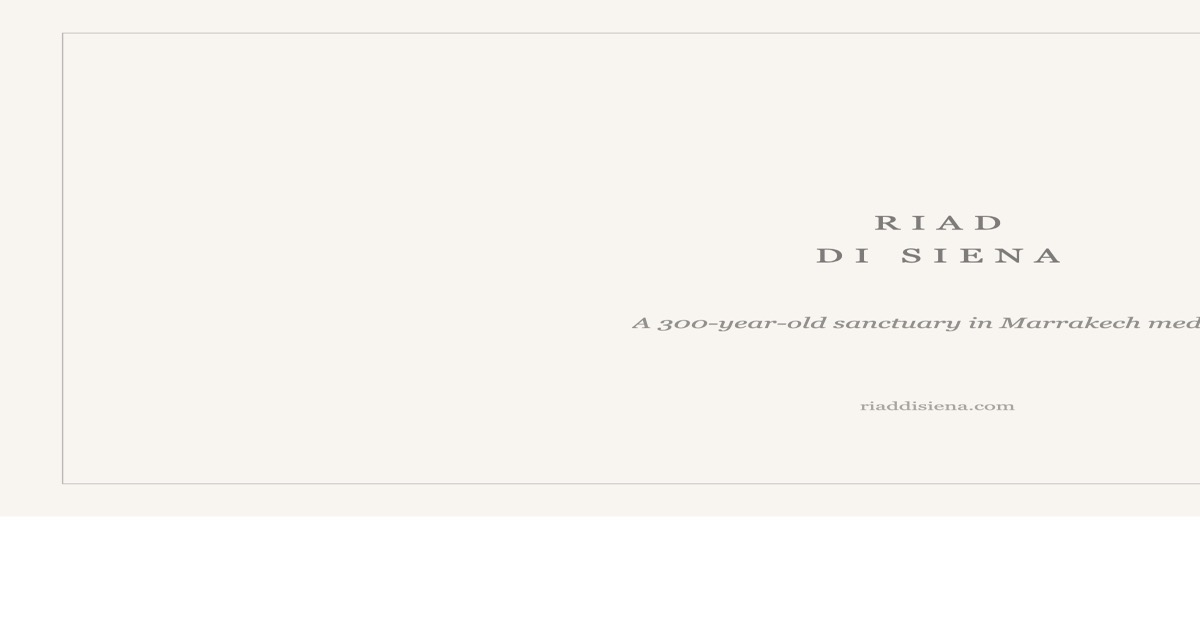
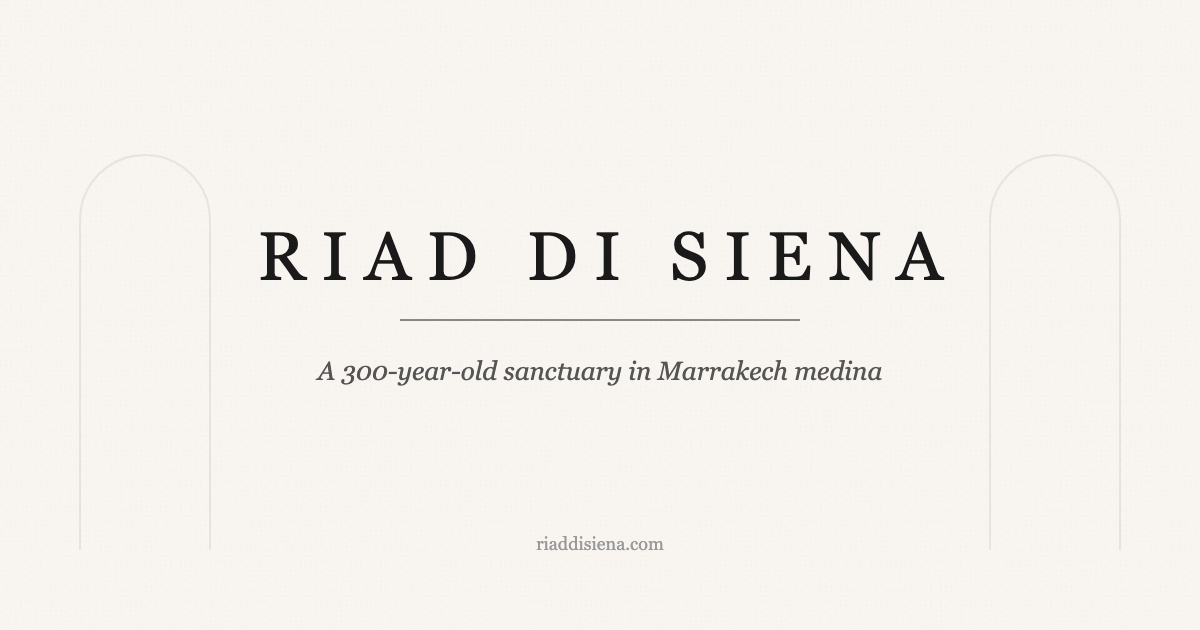
Add files via upload

diff --git a/public/og-generator.html b/public/og-generator.html
@@ -1,0 +1,293 @@
+<!DOCTYPE html>
+<html lang="en">
+<head>
+  <meta charset="UTF-8">
+  <meta name="viewport" content="width=device-width, initial-scale=1.0">
+  <title>OG Image Generator</title>
+  <style>
+    * { box-sizing: border-box; margin: 0; padding: 0; }
+    body {
+      font-family: -apple-system, BlinkMacSystemFont, sans-serif;
+      background: #171717;
+      color: white;
+      padding: 40px;
+      line-height: 1.5;
+    }
+    h1 { font-weight: 300; font-size: 28px; margin-bottom: 8px; }
+    .subtitle { color: #888; margin-bottom: 40px; }
+    .section { margin-bottom: 60px; }
+    h2 {
+      font-size: 11px;
+      text-transform: uppercase;
+      letter-spacing: 0.15em;
+      color: #666;
+      margin-bottom: 16px;
+      font-weight: 500;
+    }
+    canvas {
+      display: block;
+      border: 1px solid #333;
+      margin-bottom: 12px;
+      max-width: 100%;
+      height: auto;
+    }
+    button {
+      background: #262626;
+      color: white;
+      border: none;
+      padding: 10px 20px;
+      font-size: 13px;
+      cursor: pointer;
+      transition: background 0.2s;
+    }
+    button:hover { background: #404040; }
+    .note {
+      background: #1f1f1f;
+      border-left: 3px solid #C93C20;
+      padding: 16px 20px;
+      margin-top: 40px;
+      font-size: 14px;
+    }
+    .note strong { color: #C93C20; }
+    code {
+      background: #333;
+      padding: 2px 6px;
+      border-radius: 3px;
+      font-size: 12px;
+    }
+  </style>
+</head>
+<body>
+  <h1>OG Image Generator</h1>
+  <p class="subtitle">Click download buttons to save each image</p>
+
+  <div class="section">
+    <h2>Riad di Siena — og-image.jpg (1200×630)</h2>
+    <canvas id="riad-og" width="1200" height="630"></canvas>
+    <button onclick="downloadJPG('riad-og', 'og-image.jpg')">Download og-image.jpg</button>
+  </div>
+
+  <div class="section">
+    <h2>Riad di Siena — apple-touch-icon.png (180×180)</h2>
+    <canvas id="riad-icon" width="180" height="180"></canvas>
+    <button onclick="downloadPNG('riad-icon', 'apple-touch-icon.png')">Download apple-touch-icon.png</button>
+  </div>
+
+  <div class="section">
+    <h2>Slow Morocco — og-image.jpg (1200×630)</h2>
+    <canvas id="morocco-og" width="1200" height="630"></canvas>
+    <button onclick="downloadJPG('morocco-og', 'og-image.jpg')">Download og-image.jpg</button>
+  </div>
+
+  <div class="section">
+    <h2>Slow Morocco — apple-touch-icon.png (180×180)</h2>
+    <canvas id="morocco-icon" width="180" height="180"></canvas>
+    <button onclick="downloadPNG('morocco-icon', 'apple-touch-icon.png')">Download apple-touch-icon.png</button>
+  </div>
+
+  <div class="note">
+    <strong>Next:</strong> Upload each file to the respective site's <code>/public/</code> folder and redeploy.
+  </div>
+
+  <script>
+    window.onload = function() {
+      drawRiadOG();
+      drawRiadIcon();
+      drawMoroccoOG();
+      drawMoroccoIcon();
+    };
+
+    function drawRiadOG() {
+      const canvas = document.getElementById('riad-og');
+      const ctx = canvas.getContext('2d');
+      
+      ctx.fillStyle = '#f8f5f0';
+      ctx.fillRect(0, 0, 1200, 630);
+      
+      // Texture
+      ctx.fillStyle = 'rgba(0,0,0,0.012)';
+      for (let i = 0; i < 1200; i += 5) {
+        for (let j = 0; j < 630; j += 5) {
+          if (Math.random() > 0.5) ctx.fillRect(i, j, 2, 2);
+        }
+      }
+      
+      // Arches
+      ctx.strokeStyle = 'rgba(26, 26, 26, 0.08)';
+      ctx.lineWidth = 2;
+      ctx.beginPath();
+      ctx.moveTo(80, 550);
+      ctx.lineTo(80, 220);
+      ctx.arc(145, 220, 65, Math.PI, 0, false);
+      ctx.lineTo(210, 550);
+      ctx.stroke();
+      
+      ctx.beginPath();
+      ctx.moveTo(990, 550);
+      ctx.lineTo(990, 220);
+      ctx.arc(1055, 220, 65, Math.PI, 0, false);
+      ctx.lineTo(1120, 550);
+      ctx.stroke();
+      
+      // Title
+      ctx.fillStyle = '#1a1a1a';
+      ctx.font = '500 68px Georgia, serif';
+      ctx.textAlign = 'center';
+      ctx.fillText('R I A D   D I   S I E N A', 600, 280);
+      
+      // Line
+      ctx.strokeStyle = '#1a1a1a';
+      ctx.lineWidth = 1;
+      ctx.beginPath();
+      ctx.moveTo(400, 320);
+      ctx.lineTo(800, 320);
+      ctx.stroke();
+      
+      // Tagline
+      ctx.font = 'italic 26px Georgia, serif';
+      ctx.fillStyle = '#555';
+      ctx.fillText('A 300-year-old sanctuary in Marrakech medina', 600, 380);
+      
+      // URL
+      ctx.font = '18px Georgia, serif';
+      ctx.fillStyle = '#999';
+      ctx.fillText('riaddisiena.com', 600, 550);
+    }
+
+    function drawRiadIcon() {
+      const canvas = document.getElementById('riad-icon');
+      const ctx = canvas.getContext('2d');
+      
+      ctx.fillStyle = '#f8f5f0';
+      ctx.fillRect(0, 0, 180, 180);
+      
+      ctx.strokeStyle = '#1a1a1a';
+      ctx.lineWidth = 3;
+      ctx.beginPath();
+      ctx.moveTo(45, 155);
+      ctx.lineTo(45, 70);
+      ctx.arc(90, 70, 45, Math.PI, 0, false);
+      ctx.lineTo(135, 155);
+      ctx.stroke();
+      
+      ctx.lineWidth = 2;
+      ctx.beginPath();
+      ctx.moveTo(62, 155);
+      ctx.lineTo(62, 85);
+      ctx.arc(90, 85, 28, Math.PI, 0, false);
+      ctx.lineTo(118, 155);
+      ctx.stroke();
+    }
+
+    function drawMoroccoOG() {
+      const canvas = document.getElementById('morocco-og');
+      const ctx = canvas.getContext('2d');
+      
+      ctx.fillStyle = '#0a0a0a';
+      ctx.fillRect(0, 0, 1200, 630);
+      
+      // Grain
+      ctx.fillStyle = 'rgba(255,255,255,0.01)';
+      for (let i = 0; i < 1200; i += 3) {
+        for (let j = 0; j < 630; j += 3) {
+          if (Math.random() > 0.6) ctx.fillRect(i, j, 1, 1);
+        }
+      }
+      
+      // Compass
+      const cx = 600, cy = 200, r = 65;
+      ctx.strokeStyle = 'rgba(255,255,255,0.9)';
+      ctx.lineWidth = 2;
+      ctx.beginPath();
+      ctx.arc(cx, cy, r, 0, Math.PI * 2);
+      ctx.stroke();
+      
+      ctx.beginPath();
+      ctx.arc(cx, cy, 8, 0, Math.PI * 2);
+      ctx.stroke();
+      
+      ctx.fillStyle = 'rgba(255,255,255,0.9)';
+      ctx.beginPath();
+      ctx.moveTo(cx, cy - r + 12);
+      ctx.lineTo(cx - 7, cy);
+      ctx.lineTo(cx + 7, cy);
+      ctx.closePath();
+      ctx.fill();
+      
+      ctx.lineWidth = 1.5;
+      ctx.beginPath();
+      ctx.moveTo(cx, cy + r - 12);
+      ctx.lineTo(cx - 7, cy);
+      ctx.lineTo(cx + 7, cy);
+      ctx.closePath();
+      ctx.stroke();
+      
+      // Text
+      ctx.fillStyle = 'rgba(255,255,255,0.95)';
+      ctx.font = '600 58px -apple-system, BlinkMacSystemFont, sans-serif';
+      ctx.textAlign = 'center';
+      ctx.fillText('S L O W', 600, 360);
+      ctx.fillText('M O R O C C O', 600, 430);
+      
+      ctx.font = '400 20px -apple-system, BlinkMacSystemFont, sans-serif';
+      ctx.fillStyle = 'rgba(255,255,255,0.5)';
+      ctx.fillText('The antidote to extractive tourism', 600, 510);
+      
+      ctx.font = '400 16px -apple-system, BlinkMacSystemFont, sans-serif';
+      ctx.fillStyle = 'rgba(255,255,255,0.3)';
+      ctx.fillText('slowmorocco.com', 600, 580);
+    }
+
+    function drawMoroccoIcon() {
+      const canvas = document.getElementById('morocco-icon');
+      const ctx = canvas.getContext('2d');
+      
+      ctx.fillStyle = '#0a0a0a';
+      ctx.fillRect(0, 0, 180, 180);
+      
+      const cx = 90, cy = 90, r = 55;
+      ctx.strokeStyle = 'rgba(255,255,255,0.9)';
+      ctx.lineWidth = 2;
+      ctx.beginPath();
+      ctx.arc(cx, cy, r, 0, Math.PI * 2);
+      ctx.stroke();
+      
+      ctx.beginPath();
+      ctx.arc(cx, cy, 6, 0, Math.PI * 2);
+      ctx.stroke();
+      
+      ctx.fillStyle = 'rgba(255,255,255,0.9)';
+      ctx.beginPath();
+      ctx.moveTo(cx, cy - r + 10);
+      ctx.lineTo(cx - 6, cy);
+      ctx.lineTo(cx + 6, cy);
+      ctx.closePath();
+      ctx.fill();
+      
+      ctx.lineWidth = 1.5;
+      ctx.beginPath();
+      ctx.moveTo(cx, cy + r - 10);
+      ctx.lineTo(cx - 6, cy);
+      ctx.lineTo(cx + 6, cy);
+      ctx.closePath();
+      ctx.stroke();
+    }
+
+    function downloadJPG(id, filename) {
+      const canvas = document.getElementById(id);
+      const link = document.createElement('a');
+      link.download = filename;
+      link.href = canvas.toDataURL('image/jpeg', 0.95);
+      link.click();
+    }
+
+    function downloadPNG(id, filename) {
+      const canvas = document.getElementById(id);
+      const link = document.createElement('a');
+      link.download = filename;
+      link.href = canvas.toDataURL('image/png');
+      link.click();
+    }
+  </script>
+</body>
+</html>
